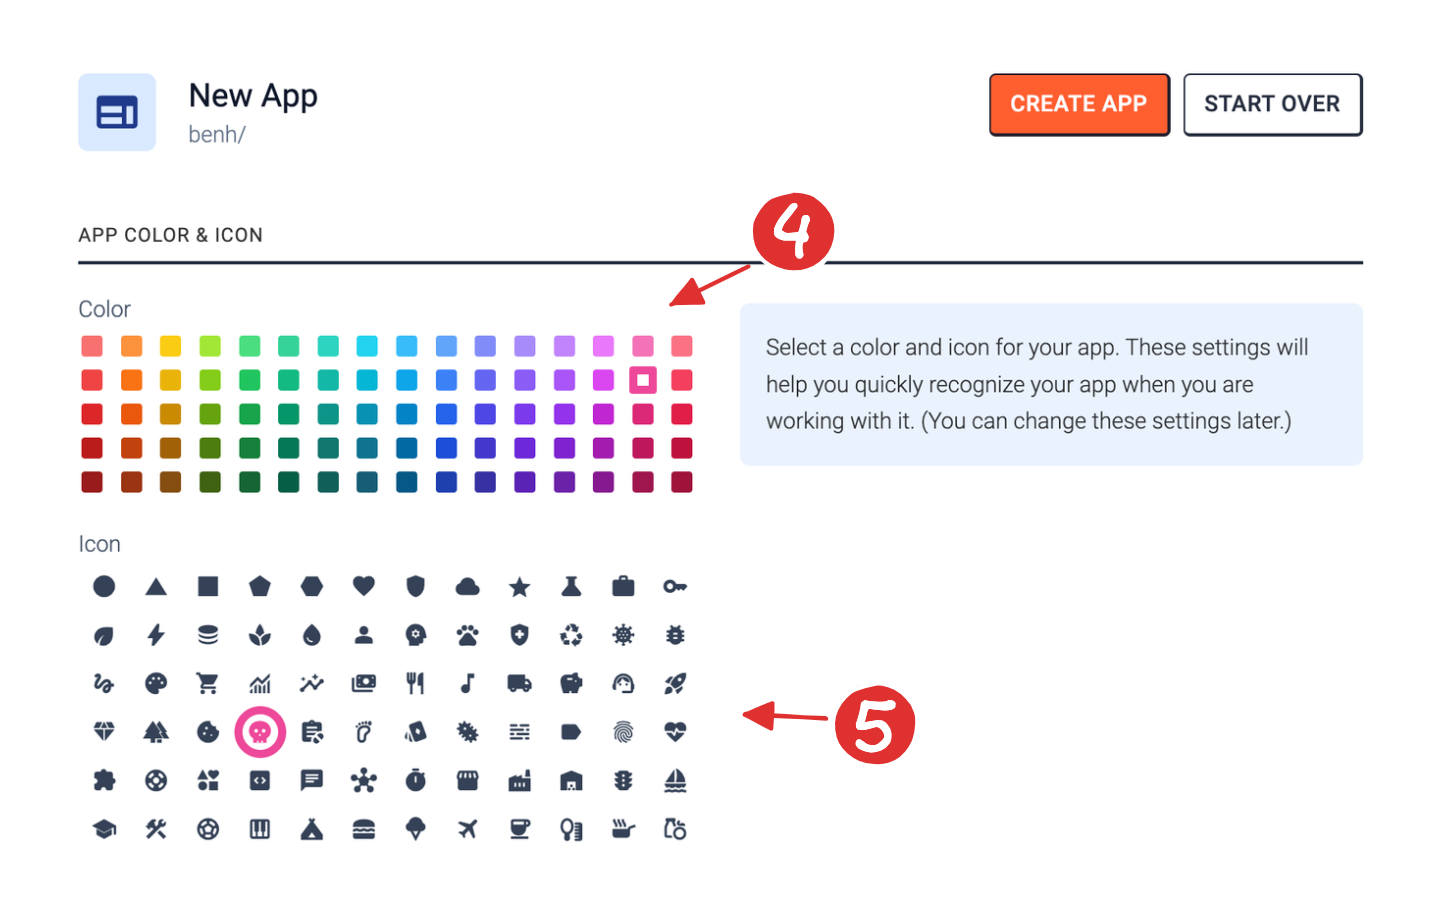
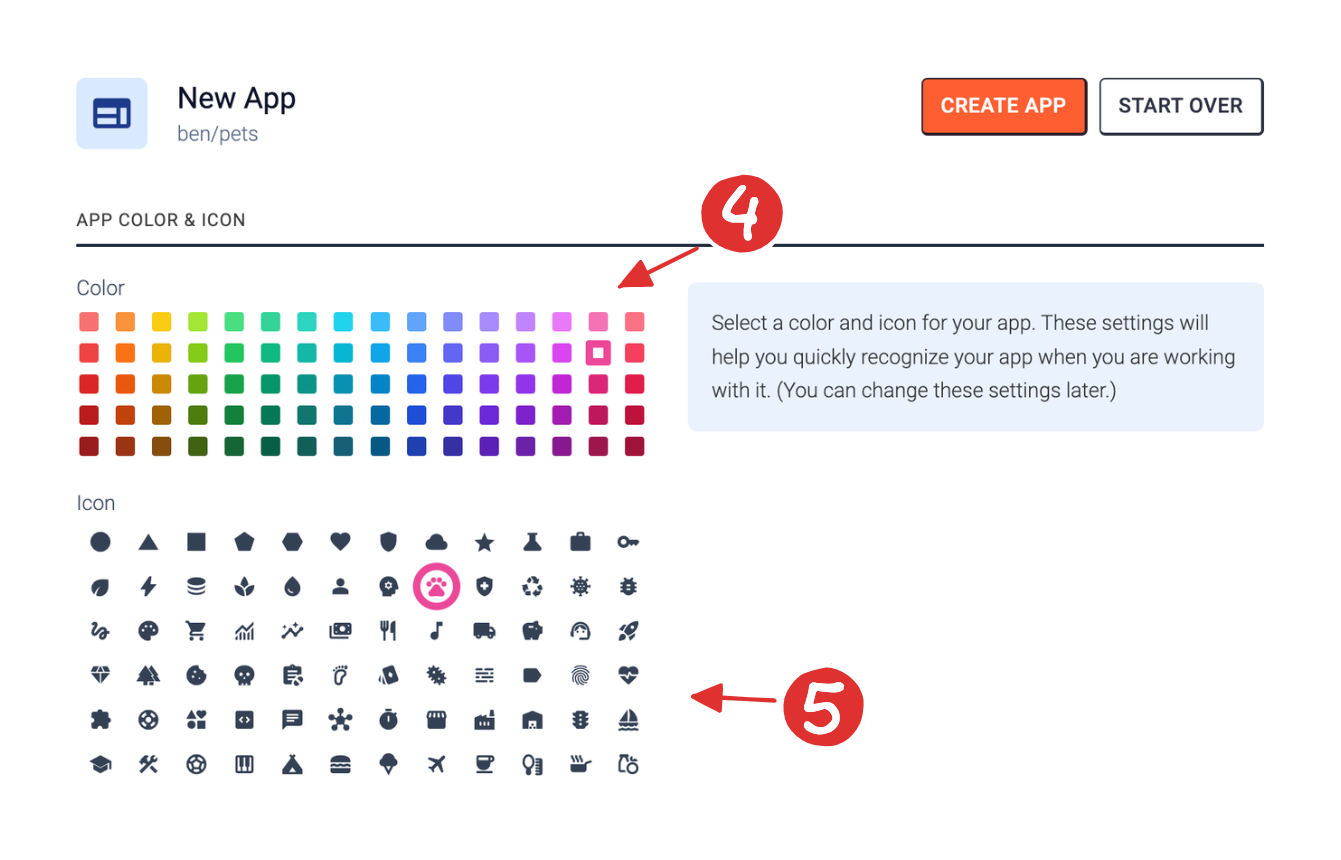
make it so (#61)

diff --git a/data/articles/docs/files/1-getting-started/appkit-starter/appkit-starter.md b/data/articles/docs/files/1-getting-started/appkit-starter/appkit-starter.md
@@ -1,0 +1,96 @@
+You just finished the "Create your first app" tutorial, and are on the app home screen of your newly created app. Let's dig in to what's here.
+
+## App Home
+
+The app home screen shows an app admin navigation section and a list of the Sites and Workspaces for this app. We'll start with a quick intro to workspaces and sites. Among other things, the App Kit starter template did six things automatically for you. (We'll go into the other things in more detail later.)
+
+1. Created a workspace for you called "dev".
+2. Installed itself into your workspace, and gave your app a license to use it.
+3. Created a bundle of your new app with a version of "v0.0.1".
+4. Created a site for you called "prod" that is using bundle version "v0.0.1".
+5. Created a domain of type "subdomain" and name `<username-appname-sitename>` and assigned it to your prod site.
+6. Created a user called `<your-username>` and gave them an admin profile in your app.
+
+![App Home](./app_home.png "app home")
+
+## Your First Workspace
+
+The App Kit starter template created a new workspace for you called "dev". Click on the workspace to go to the workspace home.
+
+A workspace is a named environment where you can make changes to an app's metadata. Workspaces are created from the app home screen, and can be either long-lived or transient.
+
+For those familiar with Git, a workspace is similar to a Git branch. You could just have one workspace and do all your work there, or you could have one long-lived "main" workspace and have each team member do all of their work on short-lived "feature" workspaces, and merge changes into the "main" workspace with Git and a continuous-integration process.
+
+Here's a quick overview of the workspace home screen.
+
+![Workspace Home](./workspace_home.png "workspace home")
+
+### 1. Recent Items
+
+Here you'll find all of the metadata items that were recently added to your workspace. There are items here because the App Kit starter template created some Views, Routes for the home, settings, and user management screens as well as Permission Sets, and Profiles for your admin and public (or unauthenticated) users. (We'll go into more detail on those items later.)
+
+### 2. Workspace Administration
+
+This is where you can adjust your workspace settings, see what bundles are installed in your workspace, and visit the bundlestore to install additional bundles. You can also create new versions of your app as a snapshot of the current state of this workspace. Those bundles can then be used in your sites to make your app available to your users.
+
+### 3. Metadata Type Categories
+
+The rest of the navigation bar contains links all of the different metadata types that can comprise a ues.io application. (Scroll down to see even more metadata types.)
+
+### 4. Generators
+
+These are the generators that are available for you to run in a workspace context. Installed bundles can add generators to this list. For now, you only have App Kit installed, so that is all of the generators you see. You just ran the "AppKit Starter" generator by creating your app with a starter template. We'll go into the "Generate Collections" generator in a later section of this guide.
+
+### 5. App Header and Breadcrumbs
+
+Click on the name of your app to go back to the app home page. The ues.io logo will take you back to the studio home where you can see all your apps.
+
+### 6. User Toolbar
+
+The User Toolbar is located in the bottom left of the navigation panel. Use this to log out or view your user settings.
+
+## Your First Site
+
+We won't make any changes to our app yet, so we can leave the "dev" workspace for now.
+
+Next, we want to check out the site that the App Kit starter template created for us called "prod". Click on your app's name in the top left corner of the navigation panel to go back to the app home screen. Then click on the "prod" site.
+
+Sites are how we publish our app to users. Each site is a separate "tenant" of the ues.io platform. That means any data in on site can never be accessed from another site. You may want multiple sites for different stages of the application lifecycle, like "prod", "uat", "dev", etc., but you can also use sites for different customers of your app. You could have one site for Customer A, and another site for Customer B.
+
+Here's a quick overview of the site home screen.
+
+![Site Home](./site_home.png "site home")
+
+### 1. Monthly Route Loads
+
+This graph shows the route loads (think page views) that your site served up this month. Since you just created this site, and you don't have any users yet, this graph will not show any usage yet.
+
+### 2. Site Administration
+
+This is where you can upgrade (or rollback) your site to a different bundle version, manage your users and data, and set secrets and configuration values for your site. You can also configure which domains (or urls) your site will be available on.
+
+### 3. Detailed Usage Metrics
+
+This is where you can dive into the many usage metrics that have been logged for your site. In ues.io, there are many different types of usage metrics (even custom ones you can create). For example, we can create a usage event when an email is sent by the system or an AI model processed a number of input or output tokens.
+
+### 4. Active Bundle Version
+
+This is the bundle version that your app is currently running.
+
+### 5. Active Domains
+
+A list of the domains that are currently active for your site. Click on the link to visit your site at that domain.
+
+### 6. Top Users
+
+A list of the most active users in your site. Click on the user tile for more information about that user. If you've been following this guide, a user was created here that is you! This is your user record for this site, it is different than your user record for the studio (which you're currently logged in as).
+
+## Log In
+
+Click on your user record to pull up the detail page for your user. If you scroll to the bottom of the page, you'll see the login methods available to your user. The App Kit starter templated created your user with a temporary password. Go ahead and copy that password to your clip board to use in a later step. Also take note of your username. (It should be the same as your studio username.)
+
+Now go back to your site's home screen and click on the domain that was created for you. You can now log in with your username and temporary password.
+
+## Next Steps
+
+Great Job! You created your first app and published it to users. Next we'll dive into making changes to your app by creating metadata items like Collections, Routes and Views.

diff --git a/data/articles/docs/files/1-getting-started/first-app/first-app.md b/data/articles/docs/files/1-getting-started/first-app/first-app.md
@@ -25,9 +25,13 @@ Before we move on, go ahead and create your first app by clicking the + button i
 
 Think of a name for your app. It's best practice to keep your app names as short as possible. For example, if you were creating a Customer Relationship Management app, just call the app `crm`. App names cannot contain spaces or any special characters. Only the lowercase characters a-z, the numbers 0-9, and the underscore character are allowed.
 
+If you want to follow along with me, use "pets" as the app name.
+
 ### 2. Give your app a description.
 
 The description of your app is not required and can be changed at any time (unlike your app's name). Feel free to leave this blank or put in a brief description of your app. If you plan to use any of the AI App generation tools, this description can be useful for helping AI models determine the kind of app you want to create.
+
+If you want to follow along with me, use "An app for keeping track of my pets." as the app description.
 
 ### 3. Set the owner field.
 
@@ -57,7 +61,7 @@ The Empty App option is for advanced users who want to start with a blank slate.
 
 For the purposes of this guide, just select the App Kit starter template and go on to the starter template options section.
 
-![Starter Templates](./startertemplates.png "starter templates")
+![Starter Templates](./starter_templates.png "starter templates")
 
 ### Starter Template Options
 
@@ -65,4 +69,4 @@ This section is different depending on which starter template you choose. For no
 
 ## Next Steps
 
-Congratulations! You've created your first ues.io application. Click the next guide to learn about making changes to your app in Workspaces.
+Congratulations! You've created your first ues.io application and are now on the app home screen. To learn more about this screen and what was created for you with the App Kit starter template, go on to the next guide, "Getting started with App Kit".
